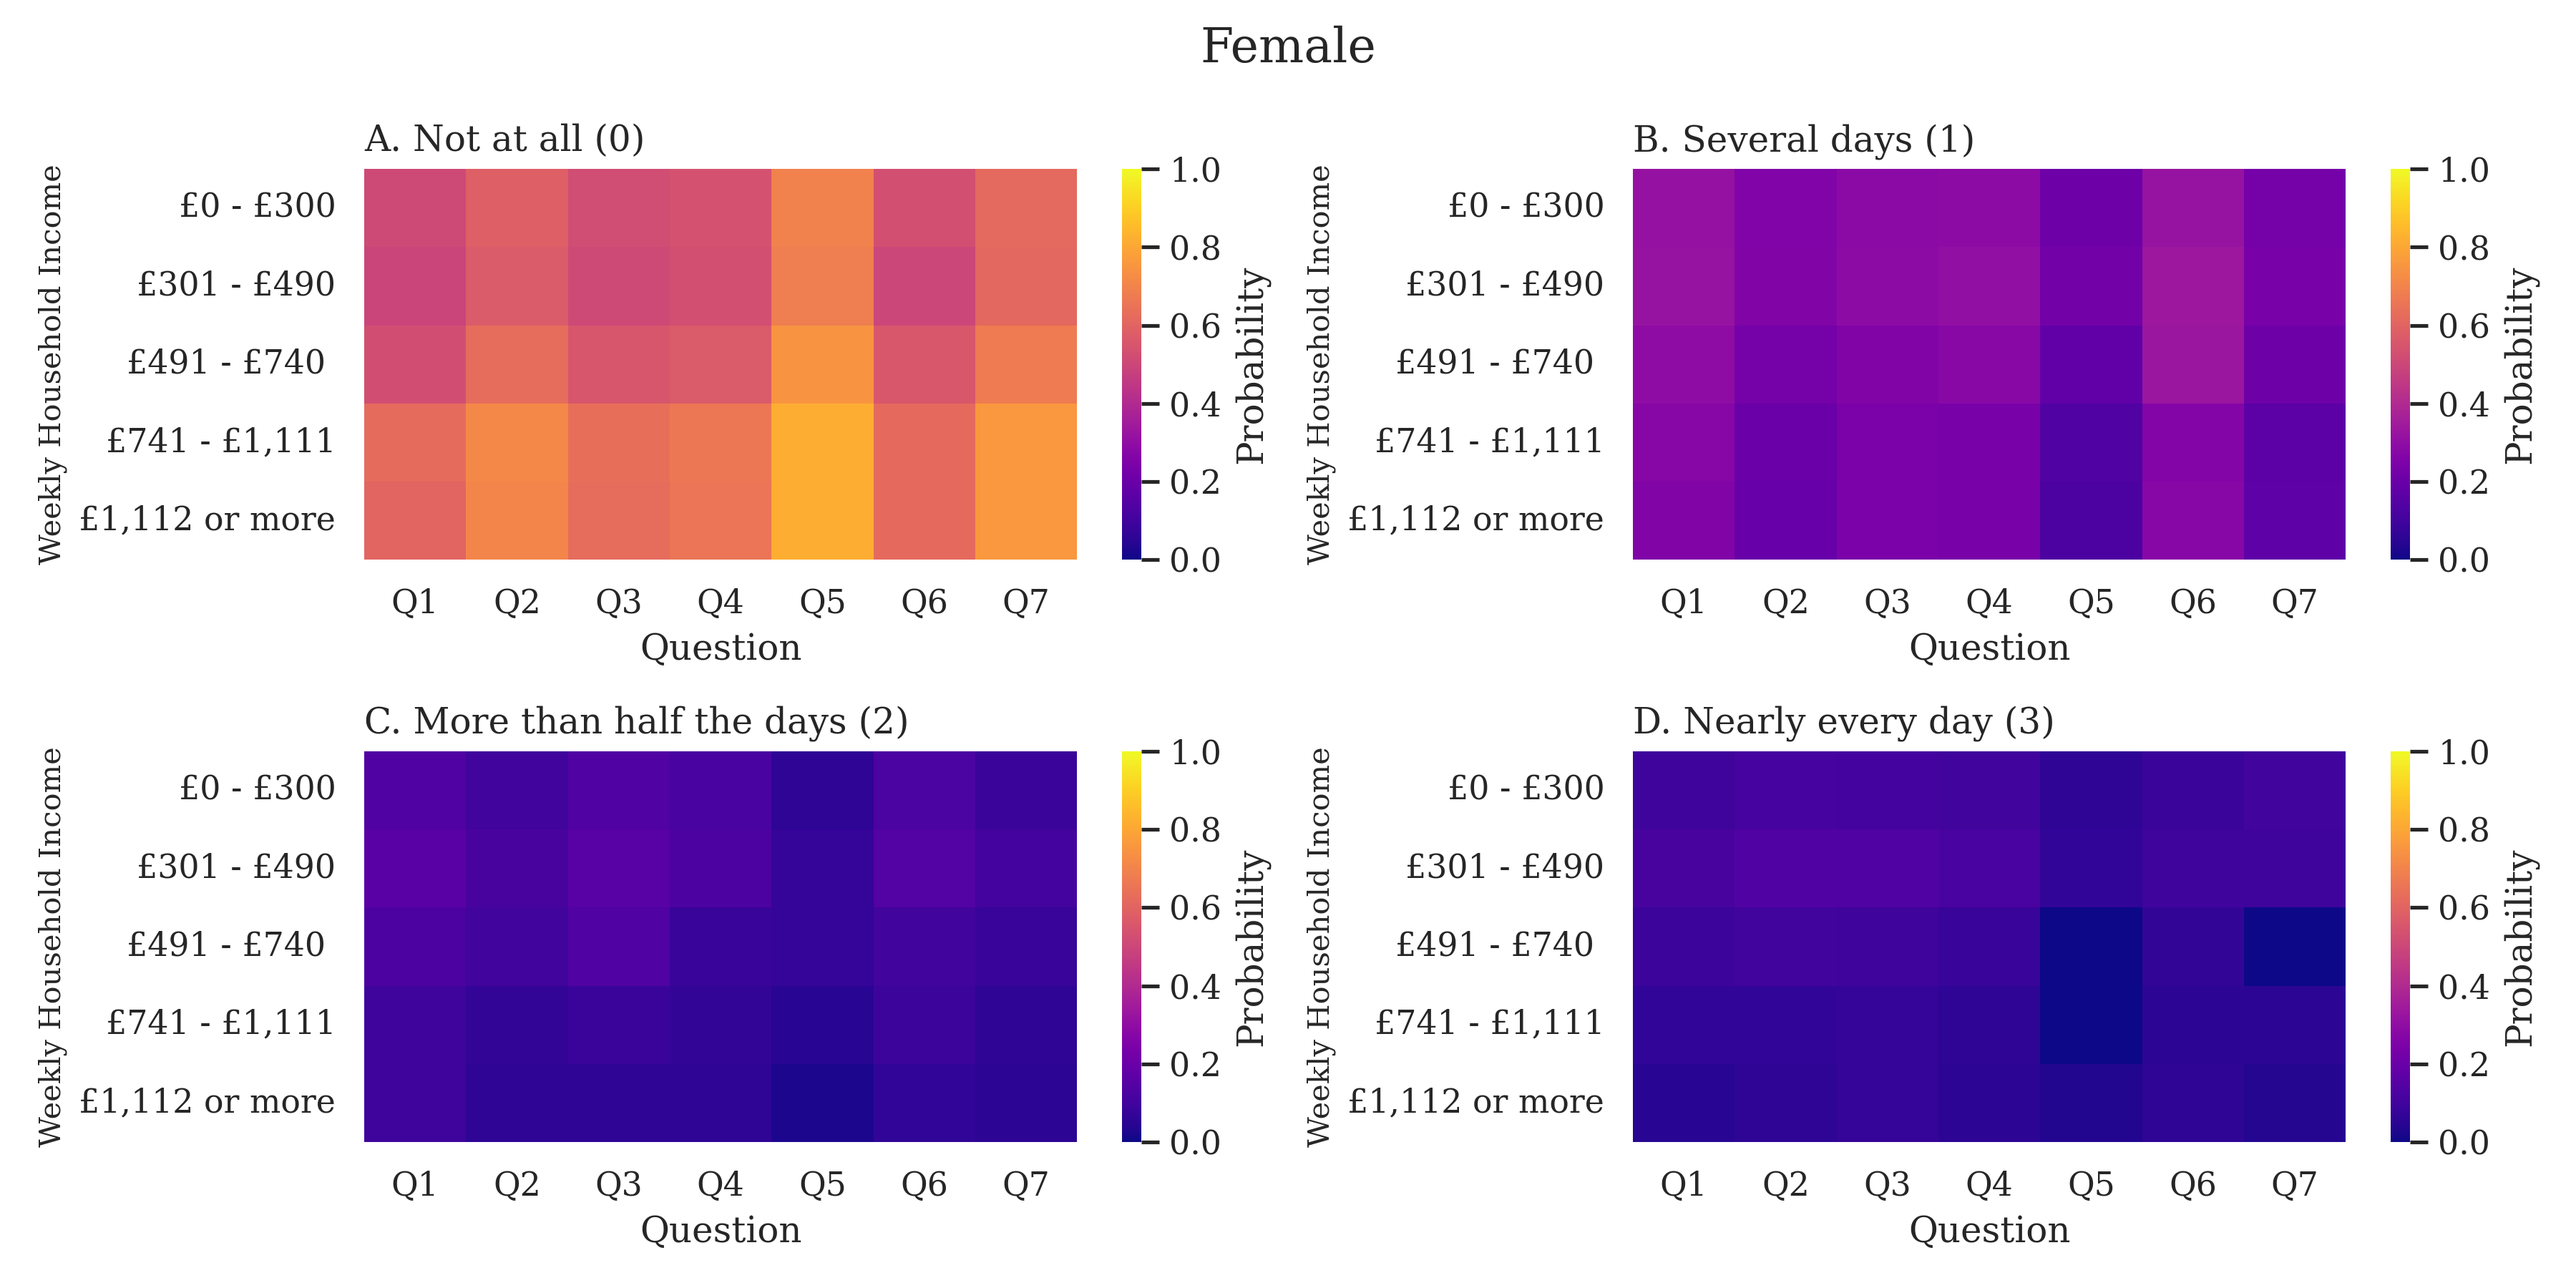
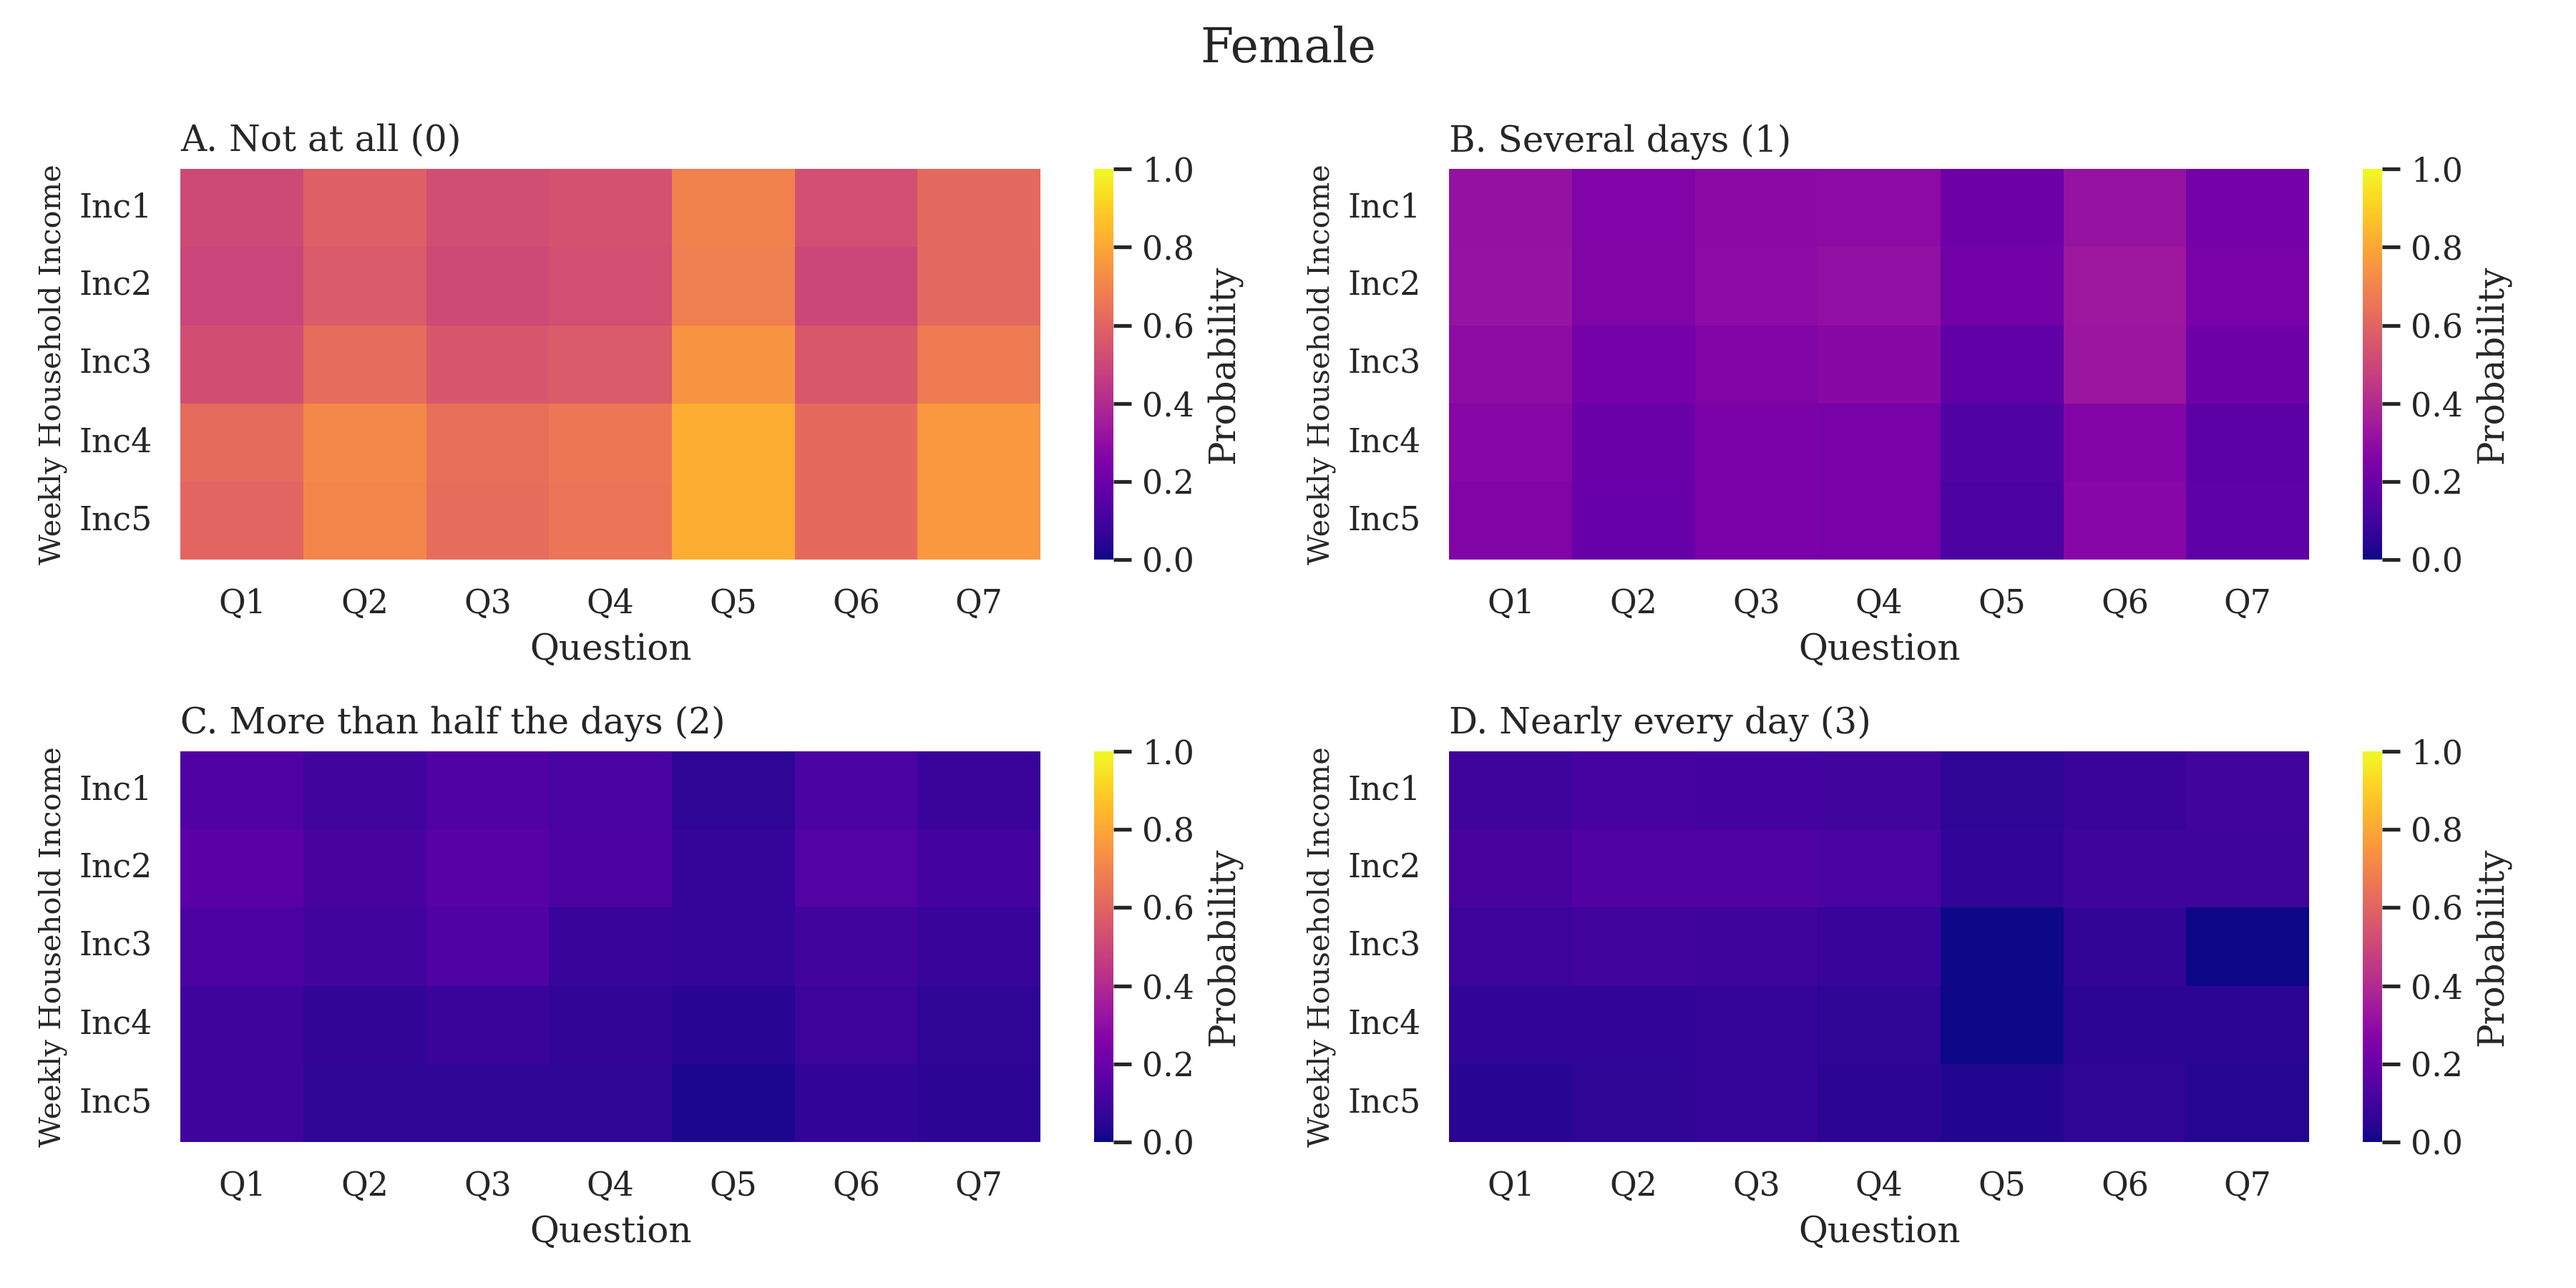
fix plots

diff --git a/anxiety_covid19_UK/plot_results_ordered_wave1.py b/anxiety_covid19_UK/plot_results_ordered_wave1.py
@@ -54,9 +54,9 @@ score_legend = ["Not at all (0)", "Several days (1)",
                 "More than half the days (2)", "Nearly every day (3)"]
 
 
-income_rep = {"Inc1":"£0 - £300", "Inc2":"£301 - £490",  
-              "Inc3":"£491 - £740 ", "Inc4":"£741 - £1,111", 
-                 "Inc5":"£1,112 or more"}
+income_rep = {"I1":"£0 - £300", "I2":"£301 - £490",  
+              "I3":"£491 - £740 ", "I4":"£741 - £1,111", 
+                 "I5":"£1,112 or more"}
 
 data.Income.replace(income_rep, inplace=True)
 
@@ -84,6 +84,7 @@ for k in tqdm(range(K)):
     df.fillna(0, inplace=True) 
     df = df[sorted(df.columns)]
     sns.heatmap(df, vmin=0, vmax=1, ax=axs[k], cmap="plasma", cbar_kws={'label': 'Probability'})
+    axs[k].set_yticklabels(["Inc1", "Inc2", "Inc3", "Inc4", "Inc5"], rotation=0)
     axs[k].set_title(panels[k]+score_legend[k], loc="left")
     axs[k].set_ylabel("Weekly Household Income", size=10)
 plt.suptitle("Male", size=16)    
@@ -100,6 +101,7 @@ for k in tqdm(range(K)):
     df = df[sorted(df.columns)]
     df.fillna(0, inplace=True) 
     sns.heatmap(df, vmin=0, vmax=1, ax=axs[k], cmap="plasma", cbar_kws={'label': 'Probability'})
+    axs[k].set_yticklabels(["Inc1", "Inc2", "Inc3", "Inc4", "Inc5"], rotation=0)
     axs[k].set_title(panels[k]+score_legend[k], loc="left")
     axs[k].set_ylabel("Weekly Household Income", size=10)
 plt.suptitle("Female", size=16)    
@@ -406,21 +408,22 @@ g_ans = np.array([["Female", "Male"] for i in  range(len(m_ans))]).flatten()
 i_ans = np.repeat(data.Income.unique(), len(m_ans.T)).flatten()
 
 dfi = pd.read_csv("./data/anxiety_covid19_UK_wave1_data.csv")
-dfi = dfi.sort_values("Income")
+dfi = dfi.sort_values(["Income", "Gender"])
 income_rep = {"Inc1":"£0 - £300", "Inc2":"£301 - £490",  
               "Inc3":"£491 - £740 ", "Inc4":"£741 - £1,111", 
-                 "Inc5":"£1,112 or more"}
+                 "Inc5":"£1,112+"}
 dfi.Income.replace(income_rep, inplace=True)
 
 df_ans = pd.DataFrame({"Mean":m_ans.flatten(), "SD":s_ans.flatten(), 
                        "Gender":g_ans, "Income":i_ans})
 df_ans.Income.replace(income_rep, inplace=True)
 
+colors = ['#556B2F', '#8E4585']
 fig, axs = plt.subplots(2,1, figsize=(8,8))
-sns.violinplot(dfi, x="Income", y="GAD_Total", hue="Gender", ax=axs[0])
+sns.violinplot(dfi, x="Income", y="GAD_Total", hue="Gender", palette=colors, ax=axs[0])
 axs[0].set_ylabel("Added Score")
 axs[0].set_title("A. Observed GAD-7 Total Scores", loc="left", size=16)
-sns.barplot(df_ans, x="Income", y="Mean", hue="Gender", ax=axs[1])
+sns.barplot(df_ans, x="Income", y="Mean", hue="Gender", palette=colors, ax=axs[1])
 for i, j in enumerate(df_ans['Income'].unique()):
     subset = df_ans[df_ans['Income'] == j]
     axs[1].errorbar(x=np.array([i-0.2, i+0.2]), y=subset["Mean"], 

diff --git a/depression_covid19_UK/plot_results_ordered_wave1.py b/depression_covid19_UK/plot_results_ordered_wave1.py
@@ -109,6 +109,7 @@ for k in tqdm(range(K)):
     df.fillna(0, inplace=True) 
     df = df[sorted(df.columns)]
     sns.heatmap(df, vmin=0, vmax=1, ax=axs[k], cmap="plasma", cbar_kws={'label': 'Probability'})
+    axs[k].set_yticklabels(["Inc1", "Inc2", "Inc3", "Inc4", "Inc5"], rotation=0)
     axs[k].set_title(panels[k]+score_legend[k], loc="left")
     axs[k].set_ylabel("Weekly Household Income", size=10)
 plt.suptitle("Male", size=16)    
@@ -125,6 +126,7 @@ for k in tqdm(range(K)):
     df = df[sorted(df.columns)]
     df.fillna(0, inplace=True) 
     sns.heatmap(df, vmin=0, vmax=1, ax=axs[k], cmap="plasma", cbar_kws={'label': 'Probability'})
+    axs[k].set_yticklabels(["Inc1", "Inc2", "Inc3", "Inc4", "Inc5"], rotation=0)
     axs[k].set_title(panels[k]+score_legend[k], loc="left")
     axs[k].set_ylabel("Weekly Household Income", size=10)
 plt.suptitle("Female", size=16)    
@@ -418,7 +420,7 @@ for i in tqdm(data.Question.unique()):
                 qs_da = pred_m["y_hat"].sel(ID=qs_df.index.values)
                 # qs_ids.append(qg_da.mean(axis=0))
                 try:
-                    qs_ids.append(np.max(qs_da.T, axis=1)/len(qs_df))
+                    qs_ids.append(np.max(qs_da.T, axis=1)/len(qs_da))
                 except:
                     qs_ids.append(np.repeat(0, qs_da.shape[1]))
                 
@@ -435,21 +437,26 @@ g_ans = np.array([["Female", "Male"] for i in  range(len(m_ans))]).flatten()
 i_ans = np.repeat(data.Income.unique(), len(m_ans.T)).flatten()
 
 dfi = pd.read_csv("./data/depression_covid19_UK_wave1_data.csv")
-dfi = dfi.sort_values("Income")
+dfi = dfi.sort_values(["Income", "Gender"])
 income_rep = {"Inc1":"£0 - £300", "Inc2":"£301 - £490",  
               "Inc3":"£491 - £740 ", "Inc4":"£741 - £1,111", 
-                 "Inc5":"£1,112 or more"}
+                 "Inc5":"£1,112+"}
 dfi.Income.replace(income_rep, inplace=True)
+
 
 df_ans = pd.DataFrame({"Mean":m_ans.flatten(), "SD":s_ans.flatten(), 
                        "Gender":g_ans, "Income":i_ans})
 df_ans.Income.replace(income_rep, inplace=True)
 
+colors = ['#556B2F', '#8E4585']
+
+data["y_hat"] = np.max(pred_m["y_hat"], axis=1)
+
 fig, axs = plt.subplots(2,1, figsize=(8,8))
-sns.violinplot(dfi, x="Income", y="Dep_Total", hue="Gender", ax=axs[0])
+sns.violinplot(dfi, x="Income", y="Dep_Total", hue="Gender", palette=colors, ax=axs[0])
 axs[0].set_ylabel("Added Score")
 axs[0].set_title("A. Observed PHQ-9 Total Scores", loc="left", size=16)
-sns.barplot(df_ans, x="Income", y="Mean", hue="Gender", ax=axs[1])
+sns.barplot(df_ans, x="Income", y="Mean", hue="Gender", palette=colors, ax=axs[1])
 for i, j in enumerate(df_ans['Income'].unique()):
     subset = df_ans[df_ans['Income'] == j]
     axs[1].errorbar(x=np.array([i-0.2, i+0.2]), y=subset["Mean"], 

diff --git a/depression_covid19_UK/plot_results_ordered_wave6.py b/depression_covid19_UK/plot_results_ordered_wave6.py
@@ -98,6 +98,7 @@ for k in tqdm(range(K)):
     df = df[sorted(df.columns)]
     df.fillna(0, inplace=True) 
     sns.heatmap(df, vmin=0, vmax=1, ax=axs[k], cmap="plasma", cbar_kws={'label': 'Probability'})
+    axs[k].set_yticklabels(["Inc1", "Inc2", "Inc3", "Inc4", "Inc5"], rotation=0)
     axs[k].set_title(panels[k]+score_legend[k], loc="left")
     axs[k].set_ylabel("Weekly Household Income", size=10)
 plt.suptitle("Male", size=16)    
@@ -114,6 +115,7 @@ for k in tqdm(range(K)):
     df = df[sorted(df.columns)]
     df.fillna(0, inplace=True) 
     sns.heatmap(df, vmin=0, vmax=1, ax=axs[k], cmap="plasma", cbar_kws={'label': 'Probability'})
+    axs[k].set_yticklabels(["Inc1", "Inc2", "Inc3", "Inc4", "Inc5"], rotation=0)
     axs[k].set_title(panels[k]+score_legend[k], loc="left")
     axs[k].set_ylabel("Weekly Household Income", size=10)
 plt.suptitle("Female", size=16)    
@@ -419,21 +421,22 @@ g_ans = np.array([["Female", "Male"] for i in  range(len(m_ans))]).flatten()
 i_ans = np.repeat(data.Income.unique(), len(m_ans.T)).flatten()
 
 dfi = pd.read_csv("./data/depression_covid19_UK_wave6_data.csv")
-dfi = dfi.sort_values("Income")
+dfi = dfi.sort_values(["Income", "Gender"])
 income_rep = {"Inc1":"£0 - £300", "Inc2":"£301 - £490",  
               "Inc3":"£491 - £740 ", "Inc4":"£741 - £1,111", 
-                 "Inc5":"£1,112 or more"}
+                 "Inc5":"£1,112+"}
 dfi.Income.replace(income_rep, inplace=True)
 
 df_ans = pd.DataFrame({"Mean":m_ans.flatten(), "SD":s_ans.flatten(), 
                        "Gender":g_ans, "Income":i_ans})
 df_ans.Income.replace(income_rep, inplace=True)
 
+colors = ['#556B2F', '#8E4585']
 fig, axs = plt.subplots(2,1, figsize=(8,8))
-sns.violinplot(dfi, x="Income", y="Dep_Total", hue="Gender", ax=axs[0])
+sns.violinplot(dfi, x="Income", y="Dep_Total", hue="Gender", palette=colors, ax=axs[0])
 axs[0].set_ylabel("Added Score")
 axs[0].set_title("A. Observed PHQ-9 Total Scores", loc="left", size=16)
-sns.barplot(df_ans, x="Income", y="Mean", hue="Gender", ax=axs[1])
+sns.barplot(df_ans, x="Income", y="Mean", hue="Gender", palette=colors, ax=axs[1])
 for i, j in enumerate(df_ans['Income'].unique()):
     subset = df_ans[df_ans['Income'] == j]
     axs[1].errorbar(x=np.array([i-0.2, i+0.2]), y=subset["Mean"], 

diff --git a/anxiety_covid19_UK/plot_results_ordered_wave6.py b/anxiety_covid19_UK/plot_results_ordered_wave6.py
@@ -83,6 +83,7 @@ for k in tqdm(range(K)):
     df = df[sorted(df.columns)]
     df.fillna(0, inplace=True) 
     sns.heatmap(df, vmin=0, vmax=1, ax=axs[k], cmap="plasma", cbar_kws={'label': 'Probability'})
+    axs[k].set_yticklabels(["Inc1", "Inc2", "Inc3", "Inc4", "Inc5"], rotation=0)
     axs[k].set_title(panels[k]+score_legend[k], loc="left")
     axs[k].set_ylabel("Weekly Household Income", size=10)
 plt.suptitle("Male", size=16)    
@@ -99,6 +100,7 @@ for k in tqdm(range(K)):
     df = df[sorted(df.columns)]
     df.fillna(0, inplace=True) 
     sns.heatmap(df, vmin=0, vmax=1, ax=axs[k], cmap="plasma", cbar_kws={'label': 'Probability'})
+    axs[k].set_yticklabels(["Inc1", "Inc2", "Inc3", "Inc4", "Inc5"], rotation=0)
     axs[k].set_title(panels[k]+score_legend[k], loc="left")
     axs[k].set_ylabel("Weekly Household Income", size=10)
 plt.suptitle("Female", size=16)    
@@ -405,21 +407,22 @@ g_ans = np.array([["Female", "Male"] for i in  range(len(m_ans))]).flatten()
 i_ans = np.repeat(data.Income.unique(), len(m_ans.T)).flatten()
 
 dfi = pd.read_csv("./data/anxiety_covid19_UK_wave1_data.csv")
-dfi = dfi.sort_values("Income")
+dfi = dfi.sort_values(["Income", "Gender"])
 income_rep = {"Inc1":"£0 - £300", "Inc2":"£301 - £490",  
               "Inc3":"£491 - £740 ", "Inc4":"£741 - £1,111", 
-                 "Inc5":"£1,112 or more"}
+                 "Inc5":"£1,112+"}
 dfi.Income.replace(income_rep, inplace=True)
 
 df_ans = pd.DataFrame({"Mean":m_ans.flatten(), "SD":s_ans.flatten(), 
                        "Gender":g_ans, "Income":i_ans})
 df_ans.Income.replace(income_rep, inplace=True)
 
+colors = ['#556B2F', '#8E4585']
 fig, axs = plt.subplots(2,1, figsize=(8,8))
-sns.violinplot(dfi, x="Income", y="GAD_Total", hue="Gender", ax=axs[0])
+sns.violinplot(dfi, x="Income", y="GAD_Total", hue="Gender", palette=colors, ax=axs[0])
 axs[0].set_ylabel("Added Score")
 axs[0].set_title("A. Observed GAD-7 Total Scores", loc="left", size=16)
-sns.barplot(df_ans, x="Income", y="Mean", hue="Gender", ax=axs[1])
+sns.barplot(df_ans, x="Income", y="Mean", hue="Gender", palette=colors, ax=axs[1])
 for i, j in enumerate(df_ans['Income'].unique()):
     subset = df_ans[df_ans['Income'] == j]
     axs[1].errorbar(x=np.array([i-0.2, i+0.2]), y=subset["Mean"], 
